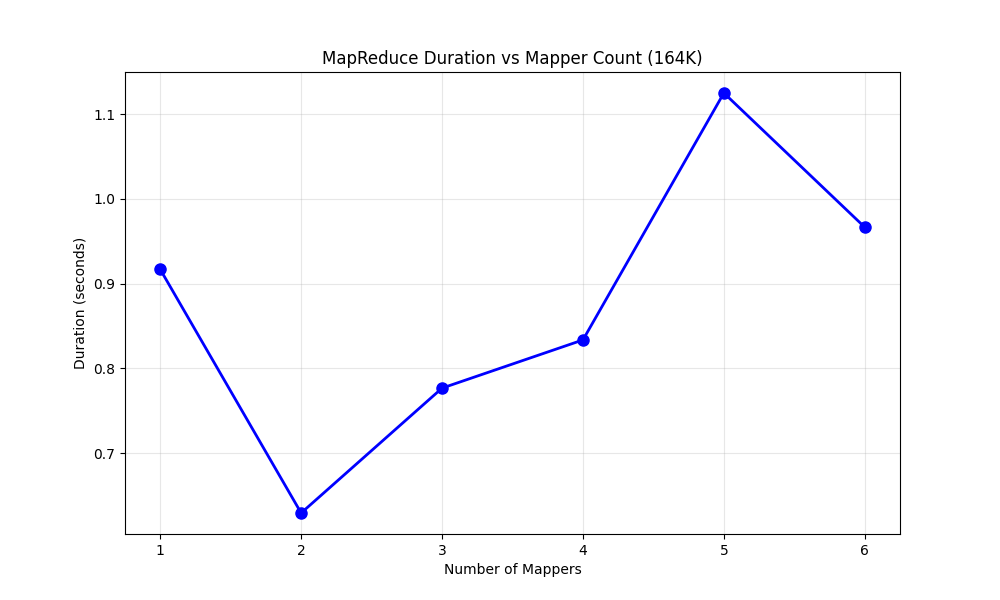
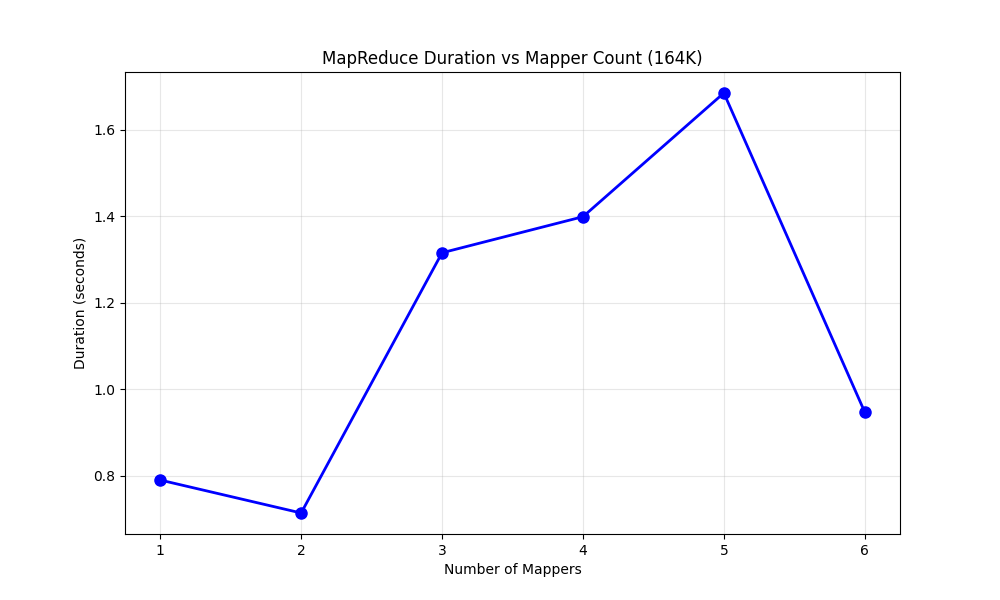
update tester

diff --git a/Homework4/map_reduce_tester.py b/Homework4/map_reduce_tester.py
@@ -70,7 +70,7 @@ class MapReducePerformanceTester:
         plt.plot(mapper_counts, durations, 'b-o', linewidth=2, markersize=8)
         plt.xlabel('Number of Mappers')
         plt.ylabel('Duration (seconds)')
-        plt.title('MapReduce Duration vs Mapper Count (20M)')
+        plt.title('MapReduce Duration vs Mapper Count (164K)')
         plt.grid(True, alpha=0.3)
         
         plt.show()
@@ -78,12 +78,13 @@ class MapReducePerformanceTester:
 
 async def main():
     # file_url= "https://www.gutenberg.org/files/100/100-0.txt"
-    file_url = "s3://mapreduce-experiment-975050147762/20MB-file.txt"
+    # file_url = "s3://mapreduce-experiment-975050147762/20MB-file.txt"
+    # file_url = "s3://mapreduce-experiment-975050147762/50MB-TXT-FILE.txt"
     # file_url = "https://mapreduce-experiment-975050147762.s3.us-west-2.amazonaws.com/50MB-TXT-FILE.txt"
     # file_url = "https://drive.google.com/file/d/1XvQpU2U4QDBGt__uwsksI3gbpEOns-PX/view?usp=drive_lin"
     
     # file_url = "https://www.sampledocs.in/DownloadFiles/SampleFile?filename=sample_file_50mb_sampledocs&ext=txt"
-    # file_url = "https://raw.githubusercontent.com/teropa/nlp/master/resources/corpora/gutenberg/shakespeare-hamlet.txt"
+    file_url = "https://raw.githubusercontent.com/teropa/nlp/master/resources/corpora/gutenberg/shakespeare-hamlet.txt"
     mapper_counts = [1, 2, 3, 4, 5, 6]
     
     tester = MapReducePerformanceTester()

diff --git a/Homework4/README.md b/Homework4/README.md
@@ -73,13 +73,16 @@ sequenceDiagram
 - **AWS S3:** Stores input files, chunk files, and intermediate/final results
 
 ### Performance Testing
-I tested the performance of the MapReduce system using the given text file (164K) and a larger text file (20MB) and varied the number of mappers from 1 to 6. The results are as follows:
+I tested the performance of the MapReduce system using the given text file (164K) and a larger text file (50MB) and varied the number of mappers from 1 to 6. The results are as follows:
 <img width="1000" height="600" alt="164K_text_duration_compare" src="https://github.com/user-attachments/assets/704cf8bc-8481-4023-9d68-a1ceaf25b192" />
 <img width="1000" height="600" alt="20M_text_duration_compare" src="https://github.com/user-attachments/assets/7c3af04e-7797-4028-8b4f-4bda5492b2dd" />
 
 For the 164K text file, there are no deterministic performance improvements by increasing the number of mappers. This is likely because the bottleneck is not in the computation but in the overhead of managing multiple mappers and network I/O with S3.
 
-For the 20MB text file, increasing the number of mappers from 1 to 6 shows a clear performance improvement, reducing the total duration. Besides, the duration decreases more significantly when increasing mappers from 1 to 2, while the improvement from 3 to 6 mappers is less pronounced. This suggests diminishing returns as the number of mappers increases, likely due to overhead and resource contention.
+For the 50MB text file, 
+1. increasing the number of mappers from 1 to 6 shows a clear performance improvement, reducing the total duration. 
+2. Most significant improvement occurs between 1-2 mappers (42% reduction).
+3. Performance gains flatten after 4 mappers, indicating efficiency bottlenecks.
 
 **What happen if one of the mapper failed? How would you recover?**
 Current system does not handle mapper failures, if 1 mapper fails, it will not proceed to the reduce phase. To recover, the client could implement retry logic or re-arrange the task to another available mapper.
